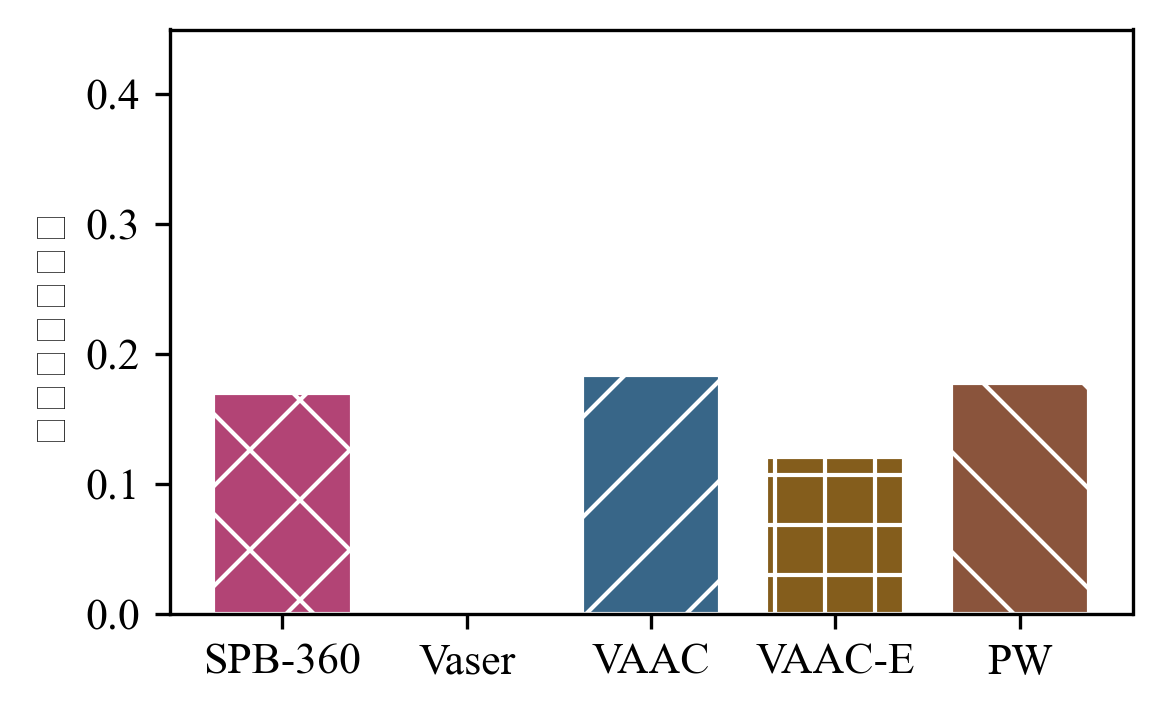
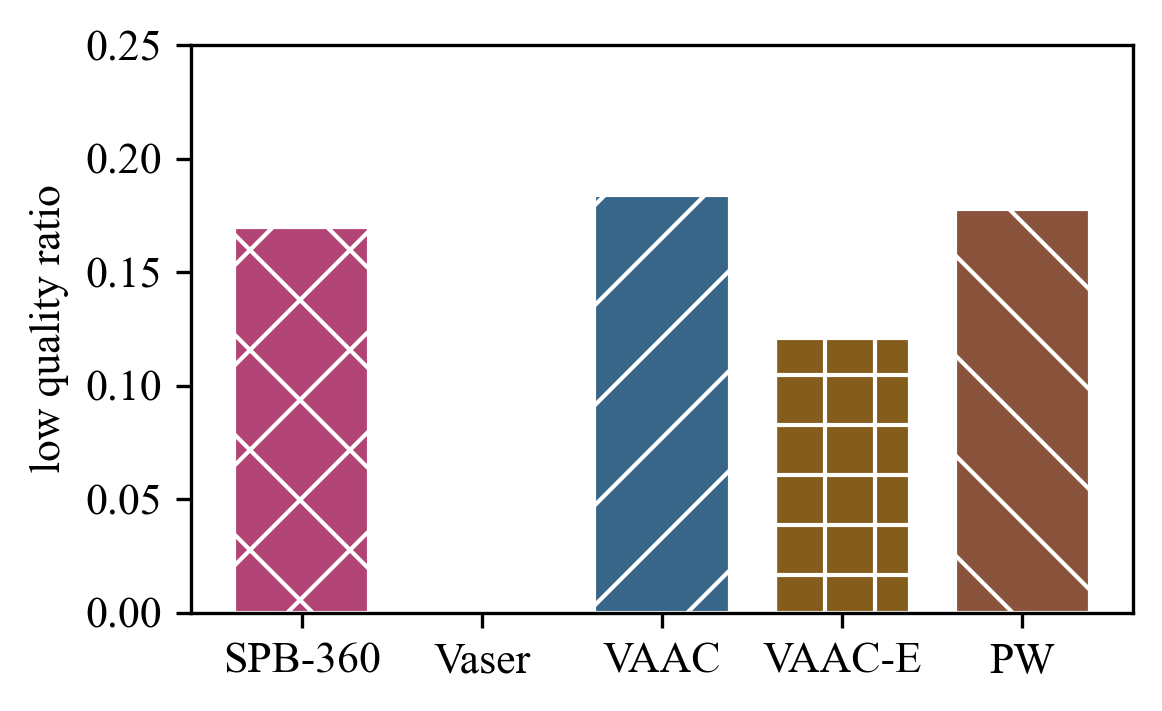
完成plots

diff --git a/plots/average_quality.py b/plots/average_quality.py
@@ -4,6 +4,7 @@ from matplotlib import rcParams
 
 plt.rcParams["font.family"] = ["Times New Roman", "SimSun"]
 
+
 def format_draw_histogram(
         labels,
         data,
@@ -44,17 +45,17 @@ def format_draw_histogram(
 
 if __name__ == "__main__":
     labels = ['SPB-360', 'Vaser', 'VAAC', 'VAAC-E', 'PW']
-    data = [0.17, 0, 0.184, 0.121, 0.178]
+    data = [4204, 5111, 4173, 4501, 1427]
     colors = ['#B24475', '#864CBC', '#386688', '#845D1C', '#8A543C']
     hatch_patterns = ['x', 'o', '/', '+', '\\']
 
     format_draw_histogram(
         labels=labels,
         data=data,
-        y_label_name='low quality ratio',
+        y_label_name='average quality(kbps)',
         x_label_name='',
-        ylim=(0, 0.25),
-        save_path='./low_quality_ratio.png',
+        ylim=(0, 6000),
+        save_path='./average_quality.png',
         colors=colors,
         hatch_patterns=hatch_patterns,
     )

diff --git a/plots/stall_time_ratio.py b/plots/stall_time_ratio.py
@@ -4,6 +4,7 @@ from matplotlib import rcParams
 
 plt.rcParams["font.family"] = ["Times New Roman", "SimSun"]
 
+
 def format_draw_histogram(
         labels,
         data,
@@ -44,17 +45,17 @@ def format_draw_histogram(
 
 if __name__ == "__main__":
     labels = ['SPB-360', 'Vaser', 'VAAC', 'VAAC-E', 'PW']
-    data = [0.17, 0, 0.184, 0.121, 0.178]
+    data = [0.292, 0.439, 0.287, 0.363, 0.129]
     colors = ['#B24475', '#864CBC', '#386688', '#845D1C', '#8A543C']
     hatch_patterns = ['x', 'o', '/', '+', '\\']
 
     format_draw_histogram(
         labels=labels,
         data=data,
-        y_label_name='low quality ratio',
+        y_label_name='stall time ratio',
         x_label_name='',
-        ylim=(0, 0.25),
-        save_path='./low_quality_ratio.png',
+        ylim=(0, 0.5),
+        save_path='./stall_time_ratio.png',
         colors=colors,
         hatch_patterns=hatch_patterns,
     )
